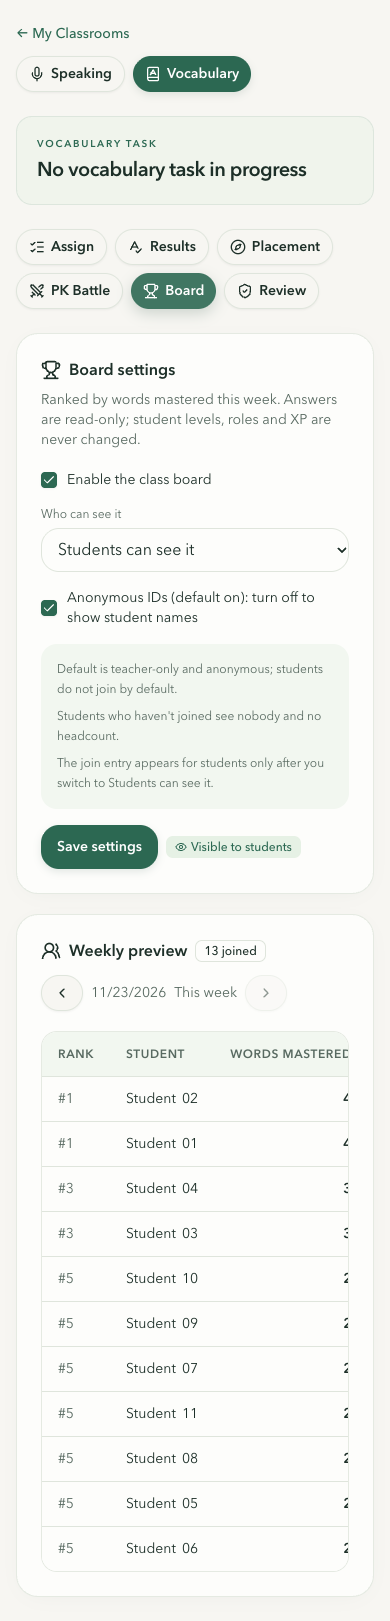
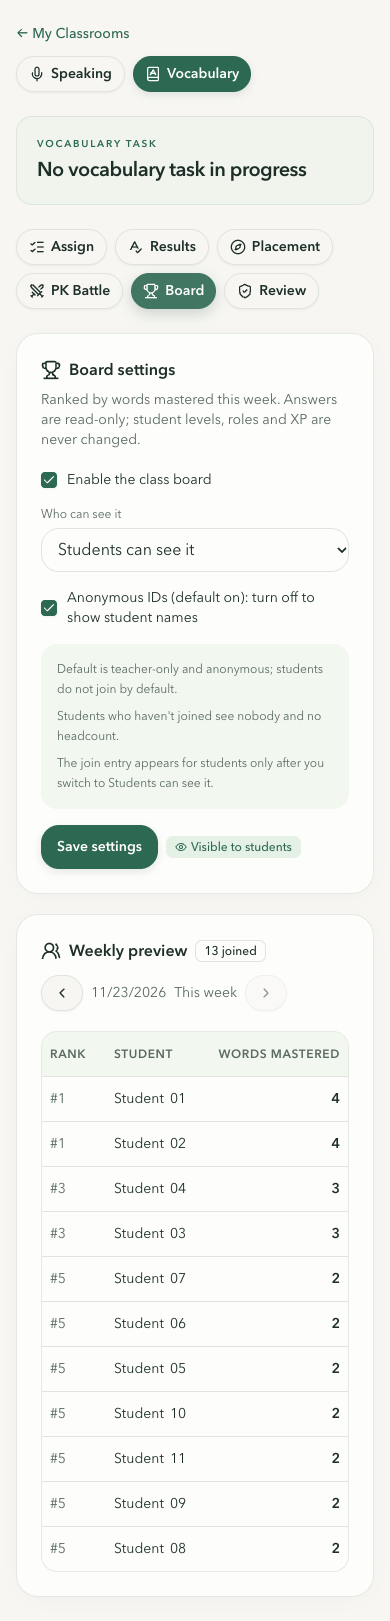
docs(evidence): #517 复拍教师端三档预览，复核 390 三列完整无裁切、分数右对齐 (#517)

diff --git a/docs/evidence/517-class-vocab-leaderboard-20261125/README.md b/docs/evidence/517-class-vocab-leaderboard-20261125/README.md
@@ -3,7 +3,7 @@
 - 验证日期：2026-11-25（Asia/Shanghai）
 - 验证环境：**仅本机本地开发环境**，未连接、未写入任何生产库或生产服务器，未触发部署、未推送代码。
 - 服务地址（本地容器）：后端 `http://127.0.0.1:8000/api/v1`，前端 `http://127.0.0.1:5173`；本地库为 compose postgres（库名 `app`）。
-- 代码基线：分支 `feat/class-vocab-leaderboard-20261125`，HEAD `07883c0`（含后端 `8c8347a` / `e830bed`、前端 `1e1eddf`、并列排名修复 `07883c0`）。
+- 代码基线：分支 `feat/class-vocab-leaderboard-20261125`，HEAD `f78f61e`（含后端 `8c8347a` / `e830bed`、前端 `1e1eddf`、并列排名修复 `07883c0`、教师预览表小屏列宽内边距修复 `f78f61e`）。
 - 被测功能：班内词汇学习榜——教师设置（开启开关 / 可见范围 / 匿名编号）、学生自愿加入与退出、本周掌握词数排行、并列竞争排名、榜外本人保留、匿名编号、参与人数可见口径、周界（自然周）与越权隔离。
 - 取证方式：真实浏览器（本机 Chrome，Playwright 驱动，视口 390 / 820 / 1180，中 / 英双语）走查 + 后端 API 探针双向核对；不以组件测试代替浏览器走查。
 - 配套机读证据：
@@ -75,7 +75,7 @@
 | `08-student-detail-1180-zh-realname.png` | 学生详情 | 中文 | 1180×900 | 关闭匿名：显示假姓名「测试学生二 / 测试学生一 …」；榜外本人行保留 | 0 | 0 |
 | `09-teacher-1180-zh-settings-preview.png` | 教师端 | 中文 | 1180×900 | 设置面板（开启学习榜开关 / 可见范围 / 匿名编号开关 / 保存设置 /「学生可见中」徽标）+ 本周预览「参与 13 人」与并列名次表 | 0 | 0 |
 | `10-teacher-820-en-preview.png` | 教师端 | 英文 | 820×900 | 英文设置面板 + 周预览 `13 joined`，匿名 `Student 02 …` | 0 | 0 |
-| `11-teacher-390-en-settings.png` | 教师端 | 英文 | 390×844 | 英文窄屏设置面板 + 周预览；最右「Words mastered」列在窄屏略被裁切（整页无横向滚动，见 §5） | 0 | 0 |
+| `11-teacher-390-en-settings.png` | 教师端 | 英文 | 390×844 | 英文窄屏设置面板 + 周预览；RANK / STUDENT / WORDS MASTERED 三列完整可见，分数右对齐，整页无横向滚动（实测边界见 §5） | 0 | 0 |
 
 ### 关键 UI 口径核对
 
@@ -96,7 +96,7 @@
 ## 5. 观察与未验证项
 
 - **窄屏榜外本人行**：390 视口下学生详情榜外本人行被底部导航遮挡，需滚动后可见；1180 / 820 视口直接可见。DOM 中本人行数据完整（见 `evidence-manifest.json` 的 `selfRowText`）。
-- **390 教师预览表列裁切**：窄屏下预览表最右「本周掌握词数 / Words mastered」列略被卡片边缘裁切；整页无横向滚动（`scrollWidth-clientWidth=0`），未触发整页横向溢出。
+- **390 教师预览表列宽（已修复）**：`f78f61e` 收窄小屏内边距后，390 视口下预览表 RANK / STUDENT / WORDS MASTERED 三列完整可见，分数右对齐。实测（`11`，390×844）：表头右缘 RANK 106px、STUDENT 201px、WORDS MASTERED 348px，主内容右缘 390px；表格 `scrollWidth=306`、`clientWidth=306`，整页 `scrollWidth-clientWidth=0`，无横向滚动。
 - **浏览器时区与周标签**：取证浏览器时区固定 `Asia/Shanghai`。若浏览器处于西半球时区，前端 `formatDate` 按本地时区格式化 date-only 字符串，周一首日期标签可能偏一天；该现象仅影响前端日期展示，**后端周界判定按 `PRACTICE_TZ=Asia/Shanghai` 自然周，不受浏览器时区影响**。
 - 备用学生密码 `brs123456` 本次未尝试；历史周切换 UI、首登改密流程、跨校学生视角未单独走查。
 - 教师端历史周回看、学生端上一周 / 下一周翻页按钮的交互未在本轮截图中逐一核对；API 周界边界已在 T7 验证。
